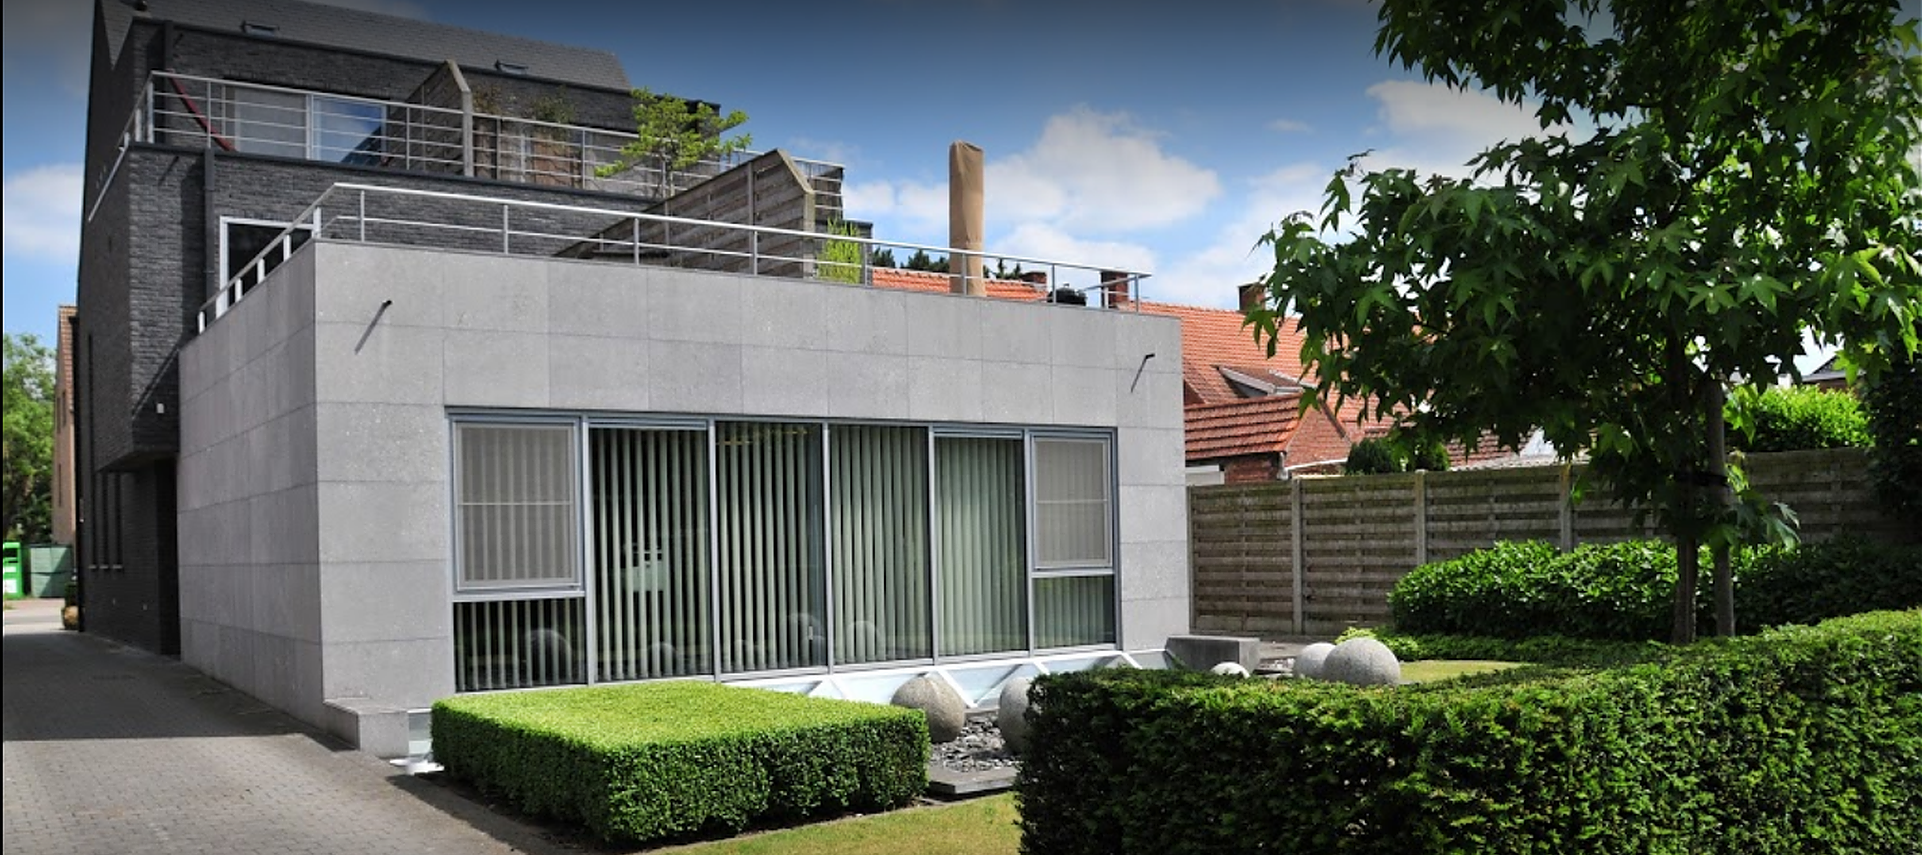
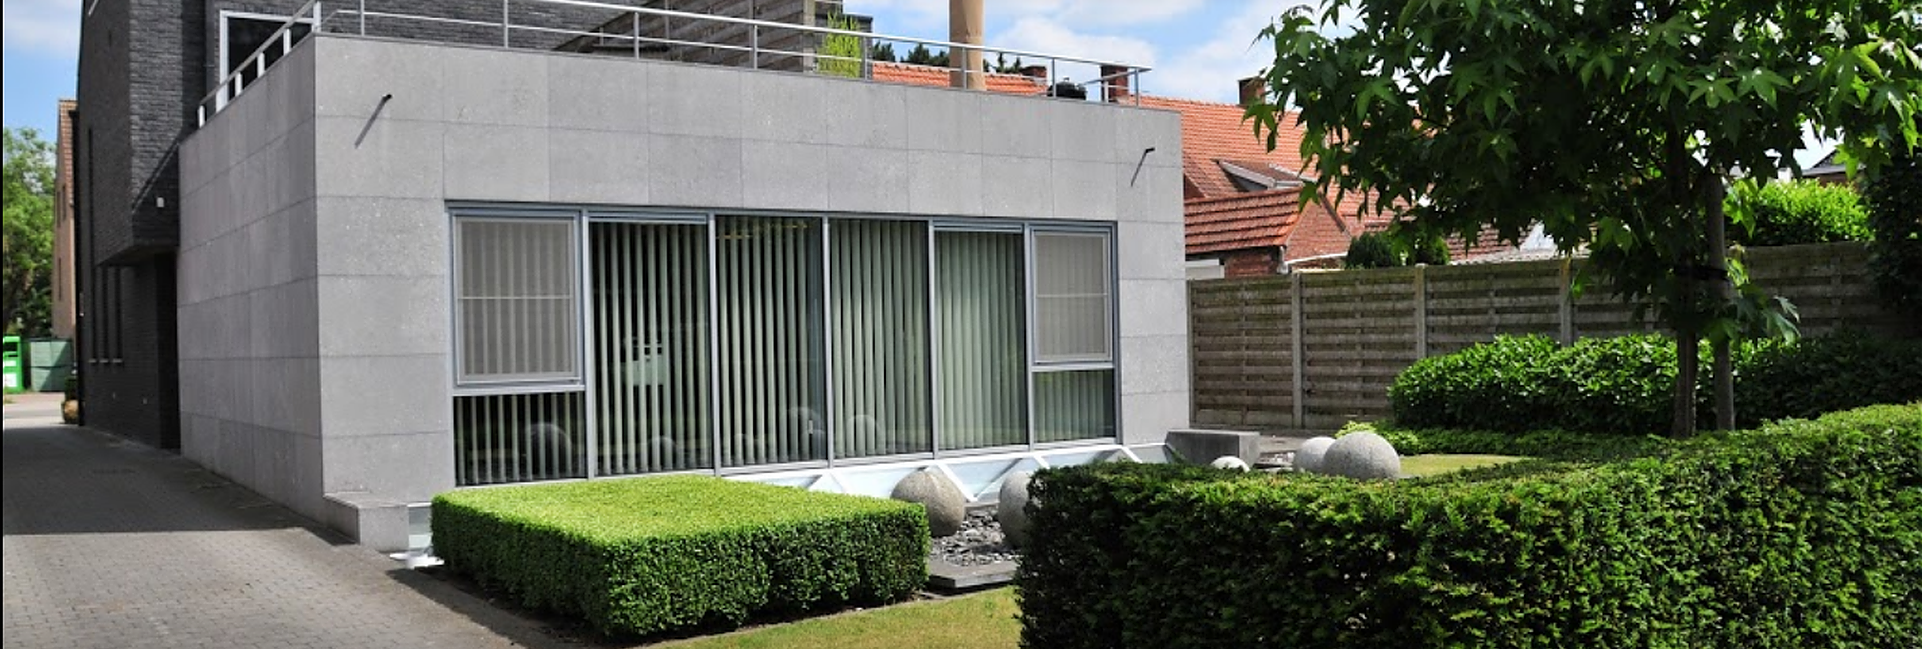
bijsnijden van background afbeelding

diff --git a/css/huisstijl.css b/css/huisstijl.css
@@ -44,7 +44,7 @@ footer ul {list-style-type: none;}
     background-repeat: no-repeat;
     background-color: #cccccc;
     width: 100%;
-    height: 850px;
+    height: 650px;
 
 
 }
